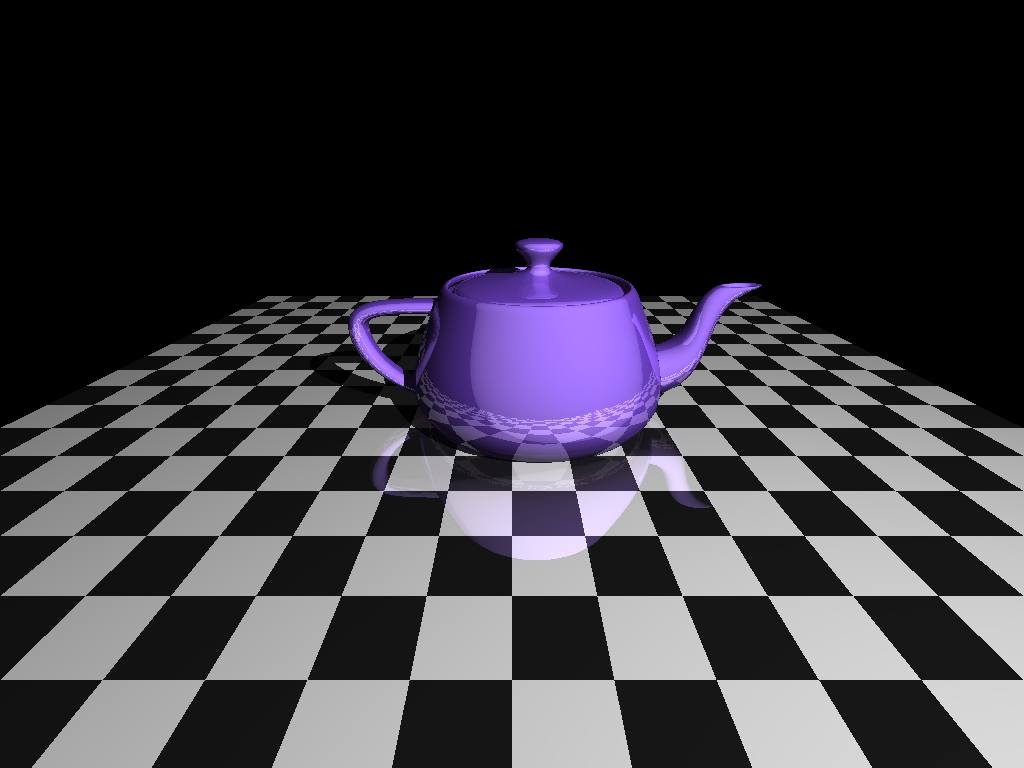
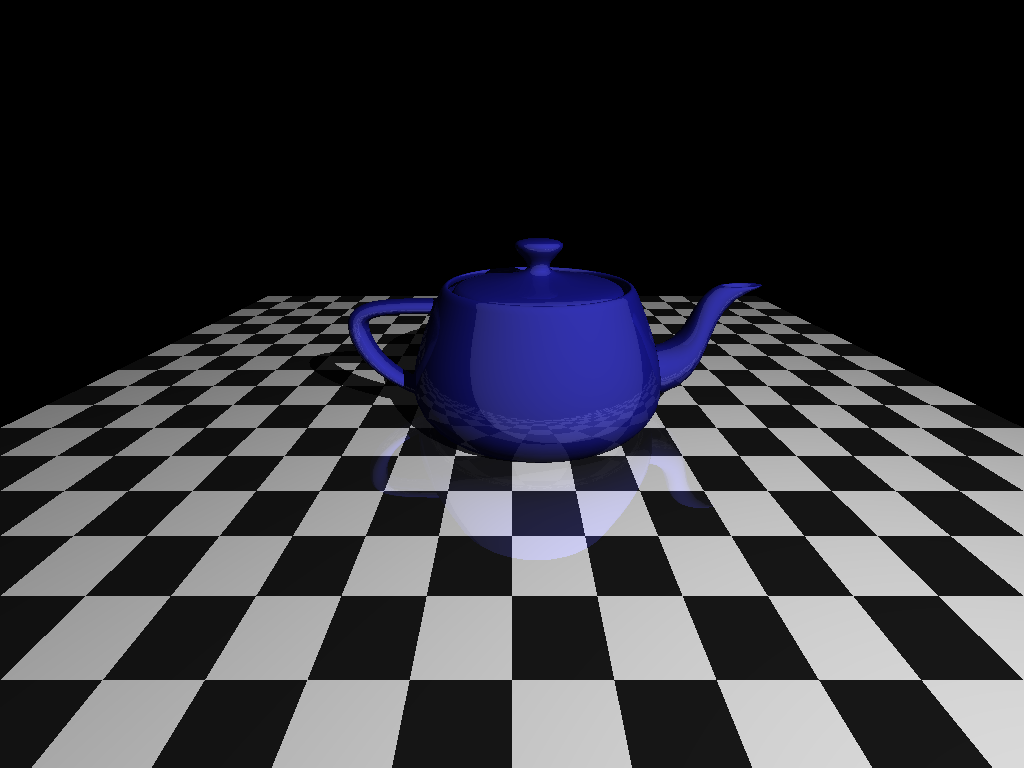
Update readme. Adjust the material parameters of the teapot

Changed region(s): [[0.3438, 0.3125, 0.75, 0.75], [0.3438, 0.5938, 0.4062, 0.6562], [0.375, 0.5625, 0.4062, 0.5938]]

diff --git a/src/objrender.cpp b/src/objrender.cpp
@@ -49,11 +49,11 @@ int main(int argc, char *argv[])
 
   std::shared_ptr<Cube> floor = std::make_shared<Cube>(scale(10, 1, 10).translate(0, -.5, 0));
 
-  auto obj_material = std::make_shared<Material>(Material(SolidPattern(Color(0.5,0.3,0.9))));
+  auto obj_material = std::make_shared<Material>(Material(SolidPattern(Color(0.1,0.1,0.6))));
 
-  obj_material->specular(0.2);
-  obj_material->shininess(0.2);
-  obj_material->reflectivity(0.3);
+  obj_material->specular(0.1);
+  obj_material->shininess(0.05);
+  obj_material->reflectivity(0.1);
   floor->material(mat_floor);
 
   w.WorldShapes().push_back(floor);

diff --git a/README.md b/README.md
@@ -68,16 +68,16 @@ The trick to this working well is how the tree is constructed. Figuring out the 
 
 ----
 ## Performance (rendering latest image)
-The switch to kd trees showed a huge improvement. The image above previously took about an hour to render.
-I have somehow made the non kd-trees version worse (I suspect I have broken then group intersection test). But the performance below is with working KD Trees version. I haven't spent any time looking to optimise the scene setup.
-
+Fixed and issue where we were recomputing the world-transform for each object, which meant that the cached inverse wasn't being used. This in combination with the kd-trees gives pretty good performance.
+The updated reflective teapot render takes ~16s to render with 4.1 seconds to create the kd-trees structure
 ```
- time ./objrender ../latest.png
+Init world
+Init World took 4.132751s
 Begin Rendering
-Pixels done: 778823  99%
-Rendering took 31.077100s
+Pixels done: 781497  99%
+Rendering took 16.341550s
 
-real    0m46.220s
-user    3m56.922s
-sys     0m0.849s
+real    0m20.644s
+user    2m8.072s
+sys     0m0.877s
 ```
